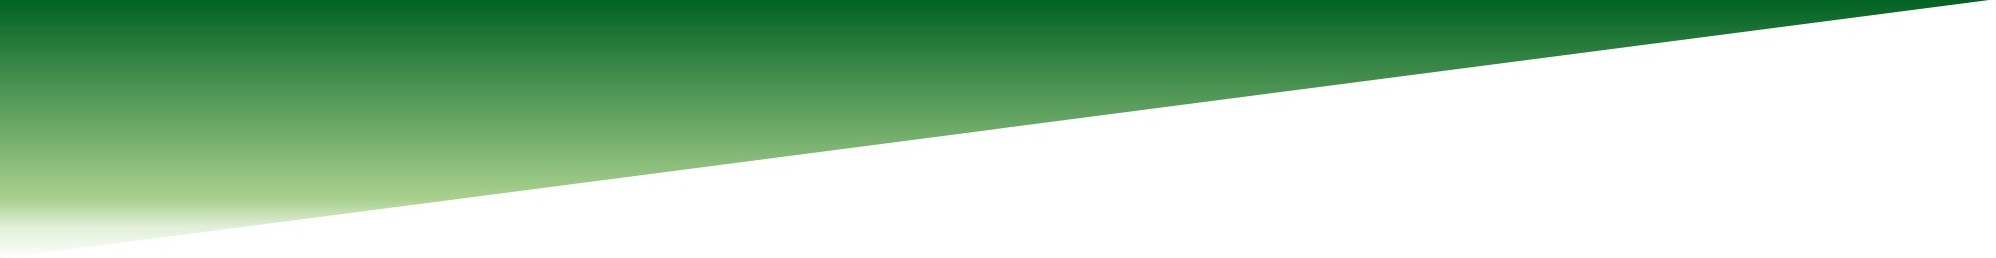
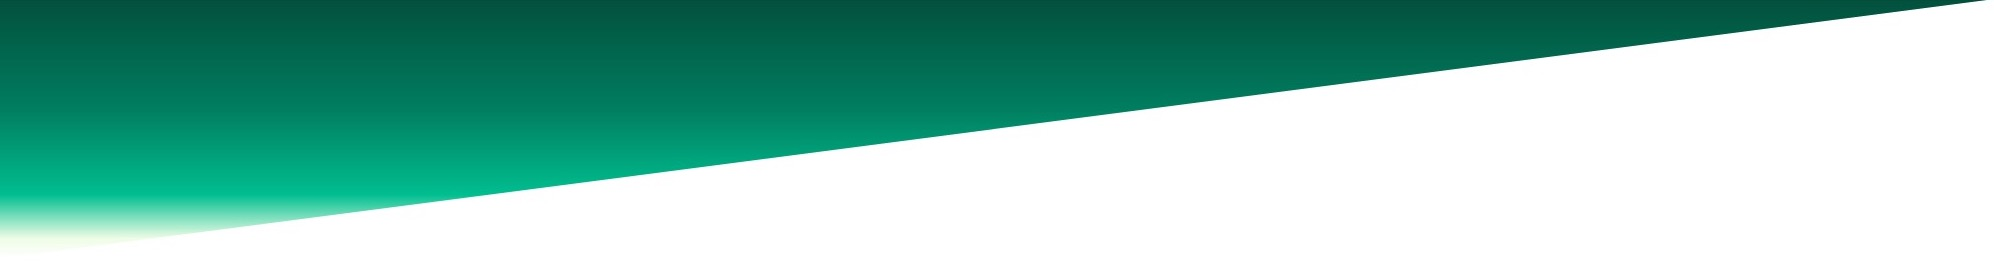
green to teal

diff --git a/client/src/components/clients/ClientPortfolio.js b/client/src/components/clients/ClientPortfolio.js
@@ -11,7 +11,7 @@ class ClientPortfolio extends Component {
   renderCardHeader(status) {
     if (status === "Aktiv") {
       return (
-        <div className="green darken-4">
+        <div className="teal darken-4">
           <h5 className="center green-text text-lighten-5">{status}</h5>
         </div>
       );
@@ -72,7 +72,7 @@ class ClientPortfolio extends Component {
         <div key="investment proportion">
           <div className="col s12 m6 l4">
             <div className="card">
-              <div className="green darken-4">
+              <div className="teal darken-4">
                 <h5 className="center green-text text-lighten-5">Investiert</h5>
               </div>
               <div className="card-image" style={{ minHeight: "125px" }}>
@@ -114,7 +114,7 @@ class ClientPortfolio extends Component {
                 <td>Empfohlen</td>
                 <td>
                   <button className="waves-effect waves-light green darken-4 btn">
-                    Details
+                    Einzelheiten
                   </button>
                 </td>
                 <td>
@@ -133,7 +133,7 @@ class ClientPortfolio extends Component {
                 <td>Empfohlen</td>
                 <td>
                   <button className="waves-effect waves-light green darken-4 btn">
-                    Details
+                    Einzelheiten
                   </button>
                 </td>
                 <td>
@@ -152,7 +152,7 @@ class ClientPortfolio extends Component {
                 <td>Investiert</td>
                 <td>
                   <button className="waves-effect waves-light green darken-4 btn">
-                    Details
+                    Einzelheiten
                   </button>
                 </td>
                 <td>
@@ -171,7 +171,7 @@ class ClientPortfolio extends Component {
                 <td>Investiert</td>
                 <td>
                   <button className="waves-effect waves-light green darken-4 btn">
-                    Details
+                    Einzelheiten
                   </button>
                 </td>
                 <td>
@@ -190,7 +190,7 @@ class ClientPortfolio extends Component {
                 <td>Investiert</td>
                 <td>
                   <button className="waves-effect waves-light green darken-4 btn">
-                    Details
+                    Einzelheiten
                   </button>
                 </td>
                 <td>
@@ -209,7 +209,7 @@ class ClientPortfolio extends Component {
                 <td>Investiert</td>
                 <td>
                   <button className="waves-effect waves-light green darken-4 btn">
-                    Details
+                    Einzelheiten
                   </button>
                 </td>
                 <td>
@@ -228,7 +228,7 @@ class ClientPortfolio extends Component {
                 <td>Investiert</td>
                 <td>
                   <button className="waves-effect waves-light green darken-4 btn">
-                    Details
+                    Einzelheiten
                   </button>
                 </td>
                 <td>

diff --git a/client/src/components/products/ProductDetail.js b/client/src/components/products/ProductDetail.js
@@ -15,8 +15,8 @@ class ProductDetail extends Component {
     return (
       <div key={product.Name}>
         <div className="col s12 m6 l3">
-          <div className="green lighten-4">
-            <h1 className="center">{product.Name}</h1>
+          <div className="teal darken-4">
+            <h1 className="center white-text">{product.Name}</h1>
           </div>
           <div className="row">
             <div className="col s12 m8 l6">
@@ -74,7 +74,7 @@ class ProductDetail extends Component {
                 <br></br>
                 <button
                   type="submit"
-                  className="teal btn-flat right white-text"
+                  className="teal darken-4 btn-flat right white-text"
                 >
                   Einreichen
                   <i className="material-icons right">done</i>

diff --git a/client/src/components/Landing.js b/client/src/components/Landing.js
@@ -3,7 +3,7 @@ import React from "react";
 const Landing = () => {
   return (
     <div>
-      <div className="section green darken-4">
+      <div className="section teal darken-4">
         <div className="row valign-wrapper">
           <div className="col s12 m6 l6 green-text text-lighten-5">
             <h1 className="center-align">X-altd Assets</h1>
@@ -78,7 +78,7 @@ const Landing = () => {
           </div>
         </div>
       </div>
-      <div className="section green darken-4">
+      <div className="section teal darken-4">
         <div
           className="row container"
           style={{ minHeight: "400px", width: "100%" }}

diff --git a/client/src/components/login/Login.js b/client/src/components/login/Login.js
@@ -57,7 +57,7 @@ const Login = () => {
                 </div>
                 <div className="row">
                   <button
-                    className="waves-effect waves-light btn green darken-4"
+                    className="waves-effect waves-light btn teal darken-4"
                     style={{ width: "196px" }}
                   >
                     Einloggen

diff --git a/client/src/components/Header.js b/client/src/components/Header.js
@@ -42,7 +42,7 @@ class Header extends Component {
   render() {
     return (
       <nav>
-        <div className="nav-wrapper green darken-4">
+        <div className="nav-wrapper teal darken-4">
           <Link
             to={this.props.auth ? "/market" : "/"}
             className="left brand-logo green-text text-lighten-5"

diff --git a/client/src/components/products/ProductList.js b/client/src/components/products/ProductList.js
@@ -27,7 +27,7 @@ class ProductList extends Component {
   renderCardHeader(Status) {
     if (Status === "Offen") {
       return (
-        <div className="green darken-4">
+        <div className="teal darken-4">
           <h5 className="center green-text text-lighten-5">{Status}</h5>
         </div>
       );

diff --git a/client/src/components/clients/ClientList.js b/client/src/components/clients/ClientList.js
@@ -11,7 +11,7 @@ class ClientList extends Component {
   renderCardHeader(status) {
     if (status === "Aktiv") {
       return (
-        <div className="green darken-4">
+        <div className="teal darken-4">
           <h5 className="center green-text text-lighten-5">{status}</h5>
         </div>
       );
